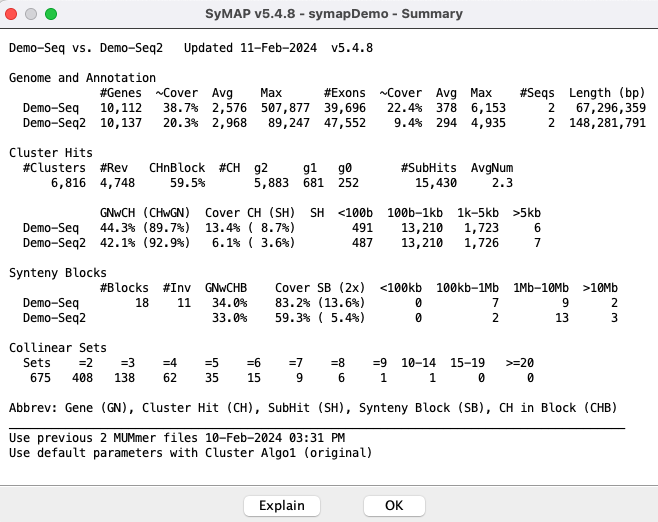
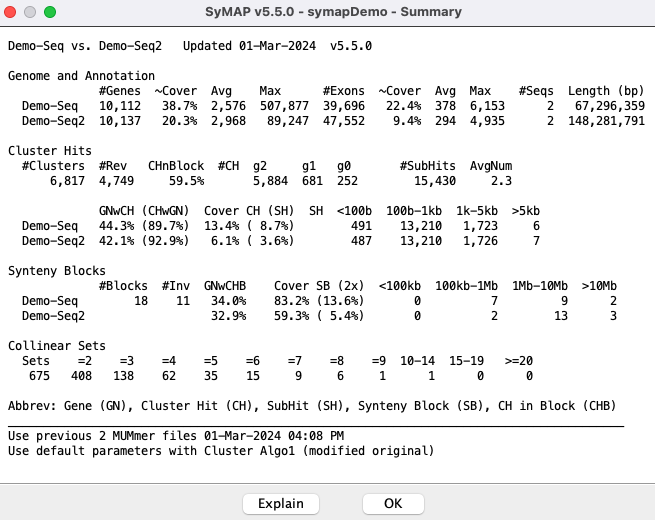
v5.5.0

diff --git a/docs/UserGuide.html b/docs/UserGuide.html
@@ -184,9 +184,13 @@ if you use SyMAP results in a paper, poster, or presentation.</font>
 
 	<tr><td style="white-space: nowrap;">Cluster Hit Algorithm:
 		<br><ttx>Algo1</ttx> or <ttx>Algo2</ttx><small><sup>1</sup></small>
-		<td>During the synteny computation, the clustering could have been done using the original <ttx>Algo1</ttx> or the
-		gene-centric <ttx>Algo2</ttx> (see <a href="SystemHelp.html#pairParams" class=ext target="_blank">System Help</a> for details).
-		The <a href="#sum">Summary</a> specifies which was used.
+		<td>During the synteny computation, either the <ttx>Algo1</ttx> or <ttx>Algo2</ttx> algorithm could have
+		been selected to cluster hits.
+		<br>&bull;The original <ttx>Algo1</ttx> was updated v5.4.0 to be more gene-aware but does not know exon-intron structure.
+		The new v5.4.8 <ttx>Algo2</ttx> knows exon-intron structure.
+		 See <a href="SystemHelp.html#clust" class=ext target="_blank">System Help</a> for details.
+
+		<br>&bull;The <a href="#sum">Summary</a> specifies which was used.
 		There are statistics in SyMAP that
 		have different values based on which algorithm was run.
 	<tr><td><ttx>Major</ttx> or <ttx>minor</ttx> assigned hit<small><sup>2</sup></small>
@@ -626,9 +630,8 @@ The tracks and hits can be filtered; see
 <h3>View a region</h3>
 <td style="text-align: right"><a href="#top">Go to top</a></td></tr></table>
 
-The example below was derived from a two chromosome display of A.thal Chr04 and Cabbage Chr01. The region
-was displayed by right-clicking
-near the top of the chromosome, dragging the mouse and releasing it in order to view the selected region.
+The selected region shown in the image below was created by left-clicking
+on one chromosome near the top coordinate shown (e.g. 11,638.48kb), dragging the mouse and releasing.
 The <ttb>Sequence Filter</ttb> was set to display <ttl>Annotations</ttl>.
 
 <p>
@@ -650,8 +653,6 @@ where the gaps are represented by a grey area.
 <i>Major and Minor genes</i> If one end of the hit-wires aligns to multiple genes, only one gene is assigned to
 it, which is called the <ttx>major</ttx> gene. The other genes are the <ttx>minor</ttx> genes.
 In the above example, gene 1910.b is the major gene for the top hit-wire and gene 1910.a is the minor gene.
-<p><font color=red>Problematic</font>: When zooming into a region, if the hit-wire is not in the region, none of the hit is shown. This
-is confusing for large hits. This will be fixed in a near-future release.
 
 <!------------------------------------------------------------------>
 <!------------------------------------------------------------------>
@@ -672,7 +673,6 @@ go away until the <ttb>OK</ttb> button is selected or the <ttl>Explorer</ttl> is
 <table style="width: 95%"><tr><td style="text-align: left">
 <h4>Hit Details</h4>
 <td style="text-align: right"><a href="#top">Go to top</a></td></tr></table>
-
 
 <u>Information:</u> Hovering the mouse over a hit-wire will show its information in the <ttl>Information</ttl> box.
 <p>
@@ -842,19 +842,28 @@ The Scale button
 (base pairs per pixel) as the reference sequence track in the view.
 <p>
 <a id="mouse_function_selector"></a>
-<ttl>Selected:</ttl>
-This drop-down selector assigns a function to the mouse's left button
-click and drag actions:
+<ttl>Selected:</ttl> This drop-down assigns a function to the selected region, which
+is selected by clicking the mouse left button on a location of the chromosome, drag and release.
 
 <table class="ty txy">
 <tr><td style="white-space: nowrap; vertical-align: text-top;"><ttl>Zoom All Tracks</ttl>
-	<td>Zoom the track to the selected region and all other tracks with hits in the region.
-	<br>When zoomed in, if the hit-wire is not displayed, none of the hit will be displayed.
+	<td>
+	<table>
+	<tr><td>
+	Zoom into the selected region and all other tracks with hits in the region.
+	<p>If the selection clips part of the hit, the hit-wire will be shown at the top or bottom of
+	the chromosome track. The hit-wire of the clipped hit can be highlighted just like a fully shown hit.
+	This feature was added for release v5.5.0 and also applies to <ttl>Zoom Selected Track</ttl>.
+	<td><a href="img/2d-clip-hitwire.png">
+	<img src="img/2d-clip-hitwire.png" alt="2d clip hitwire" style="border: 1px solid black; width: 150px"></a>
+	</table>
+
 <tr><td style="white-space: nowrap; vertical-align: text-top;"><ttl>Zoom Selected Track</ttl>
-	<td>Zoom to the selected region on the selected track; all other tracks do not change.
+	<td>Zoom into the selected region; all other tracks do not change.
 <tr><td style="white-space: nowrap; vertical-align: text-top;"><ttl>Align (Max 30kb)</ttl>
 	<td>Open the base alignment view for the selected region (see <a href="#base">Base Align</a>).
-There MUST be hits in the region to align.
+There MUST be at least a partial hit in the region to align.
+
 <tr><td style="white-space: nowrap; vertical-align: text-top;"><ttl>Show Seq Options</ttl>
 <td>The allows viewing the actual basepair sequence in a track.
 A sequence must first be selected, then a popup menu will have the options:
@@ -867,6 +876,7 @@ If the hit is on the positive strand, it will be reverse complemented.
 cluster hit to the end of the last cluster subhit.
 <tr><td><ttx>Region</ttx><td>Show the sequence from the region selected.
 </table>
+
 </table>
 
 <br><ttl>Stats</ttl>
@@ -906,8 +916,14 @@ and belong to 642 collinear sets.
 <p><ttl>Color, Print, <big>?</big> Icons</ttl>  see <a href="#image">Color Wheel, Help and Print</a>.
 
 <p>
-<u>Additional navigation</u>:
+<u>Mouse navigation</u>:
 <table  class="ty txy">
+<tr>
+	<td style="white-space: nowrap; vertical-align: text-top;">View region&nbsp;
+	<td>Drag left mouse button
+	<td>Press down on the left mouse button on a chromosome track, drag the mouse and release it. By default, this will
+	zoom into the selected region for both chromosomes. This action can be changed with the <ttl>Selected:</ttl> control
+	pull-down as discussed above.
 <tr>
 	<td style="white-space: nowrap; vertical-align: text-top;">Resize Track&nbsp;</td>
 	<td>Drag bottom of track</td>

diff --git a/docs/Release.html b/docs/Release.html
@@ -74,23 +74,59 @@ exon-intron structure.
 <tr><td><a href="#v520">v5.2.0</a><td>(20-Nov-22)<td>Updated collinear sets and <a href="Collinear.html">viewing</a>
 </table>
 
+<a id="v550"></a>
+<h3>Release: v5.5.0 (3-Mar-24)</h3>
+For existing databases, there are no changes (though there are for <a href=#v548>v5.4.8</a>).
+<br>To use SyMAP v5.5.0, you must have Java v17 or later.
+<p>
+<ul>
+<li>The <tt>symap.jar</tt> was compiled with Java version 1.8 (8); it is now compiled with Java 17, which
+is more secure, faster and was released Sept 2021.
+<li><ttb>2D display</ttb>
+<ol>
+<li>This display is much faster (really noticeable on slow machines or big chromosomes).
+<li>The <ttl>Hit Length</ttl> line was only shown if the hit-wire
+was shown; this is no longer the case.
+<li>The <ttl>Stats</ttl> button was removed, and the <ttl>Help</ttl> was moved to a little "i" button,
+which provides a popup of quick information.
+</ol>
+<li><ttb>Cluster Hits Algo1</ttb>
+<ol>
+<li>It no longer splits large genes since #2 above handles them better.
+<li>The <ttl>Summary</ttl> now refers to this algorithm as <ttx>Algo1 (modified original)</ttx> and the alternative
+as <ttx>Algo2 (exon-intron)</ttx>.
+</ol>
+<li>Developers: Lots of cleanup to remove OO spagetti code in 2d.
+<small>
+<ul>
+<li>Recreate tracks on new display instead of trying to reuse.
+<li>Move number.GenomeNumber to Sequence; remove the number class.
+Changed all numbers in DrawingPanel from objects to long.
+<li>Merge History class with HistoryControl, and remove HistoryObject.java.
+	Move HistoryControl and HistoryListener to symap.drawingpanel; remove history class.
+<li>Merge abstract Track.java with Sequence.java. Merge FSized2d.java with Frame2d.java.
+Rename frame.TrackInfo to ChrInfo and frame.Mapper to LeftMap
+</ul>
+</small>
+</ul>
+
 <a id="v549"></a>
 <h3>Release: v5.4.9 (20-Feb-24)</h3>
+For existing databases, there are no changes (though there are for <a href=#v548>v5.4.8</a>).
 <ul>
 <li>v5.4.8 little fixes: (1) The new <ttl>Query</ttl> <ttx>Multi</ttx> option had a small bug due to it using ">" instead of ">=".
 (2) The <ttl>Query</ttl> <ttx>Every*</ttx> option works for <ttx>Algo1</ttx> as of v5.4.8, but was still disabled.
 (3) The <ttl>Summary</ttl> gave wrong message if <ttl>EI</ttl> or <ttl>En</ttl> were unchecked.
-<li>The <ttl>Query</ttl> for selected chromosomes and locations was confusing. It is now consistent
-and properly documented.
+<li>The <ttl>Query</ttl> for selected chromosomes and locations was confusing. It is now consistent and properly documented.
 <li>Improved documentation.
 </ul>
 
 <a id="v548"></a>
 <h3>Release: v5.4.8 (13-Feb-24)</h3>
+For existing databases, rerun the <ttb>Synteny</ttb> algorithm.
 
 <p>This release fine tuned the <ttx>Cluster Hit Algo2</ttx> (first released in <a href="#v546">v5.4.6</a>)
 and made some adjustments to <ttx>Cluster Hit Algo1</ttx> for new interface feature.
-For existing databases, rerun the <ttb>Synteny</ttb> algorithm.
 
 <ul>
 <li><ttb>Synteny Clustering Algo2</ttb>:  See <a href="SystemHelp.html#clust">Cluster hits</a>.

diff --git a/docs/SystemHelp.html b/docs/SystemHelp.html
@@ -594,21 +594,20 @@ projects, while NUCmer is used for self alignments.
 <h3>3.c Cluster Hits</h3>
 <td style="text-align: right"><a href="#top">Go to top</a></td></tr></table>
 
-<ttl>Algorithm 1 (original, abbreviated Algo1)</ttl>:
+<ttl>Algorithm 1 (original, updated v5.4.0, abbreviated Algo1)</ttl>:
 <br><u>Pros</u> This is an generic algorithm that has knowledge of genes versus intergenic hits.
 It is recommended for ordering sequence contigs and when there are little or no gene annotation.
 It must be used for self-synteny. It has been used on 100's of genome comparisons.
-<br><u>Cons</u> It does not distinguish between exon and intron hits, but it can miss good homologous gene pairs.
+<br><u>Cons</u> It does not distinguish between exon and intron hits. It is more likely to miss good homologous gene pairs.
 <br><u>Parameters</u> It does not need parameter adjustment. However, this gives no control over what hits are filtered.
 
-<p><ttl>Algorithm 2 (gene-centric, abbreviated Algo2)</ttl>:
+<p><ttl>Algorithm 2 (new, last update v5.4.8, abbreviated Algo2)</ttl>:
 <br><u>Pros</u> This is a new algorithm that has explicit knowledge of gene pairs and their exon-intron structure, and shows all gene pairs with
 hits unless filtered by the parameters (and a few internal filters).
 It has better filtering for small intergenic and intron-only hits.
 <br><u>Cons</u> It does not perform self-synteny or take NUCmer files as input.
 It does not work when a given chromosome is split over multiple MUMmer files
 (this will not happen when SyMAP generates the MUMmer files).
-It does not split large hits.
 <br><u>Parameters</u> The parameters generally will need adjusting. However, this gives more control over what gene pairs
 are shown and can surpress the minor intergenic hits. See <a href="#hint">Hints</a>
 below the parameter explanation.

diff --git a/docs/SystemGuide.html b/docs/SystemGuide.html
@@ -189,7 +189,7 @@ Follow the steps below to get started with SyMAP.
 <table class="tx">
 	<tr><td style="vertical-align: text-top;">1.
 		<td style="vertical-align: text-top;">Use a Linux or MacOS machine.
-		<td style="vertical-align: text-top;">It needs to have Java v1.8 or later, and sufficient processing power.
+		<td style="vertical-align: text-top;">It needs to have Java v17 or later, and sufficient processing power.
 			See <a href="#machine">system requirements</a>.
 	<tr>
 		<td style="vertical-align: text-top;">2.
@@ -231,8 +231,9 @@ Follow the steps below to get started with SyMAP.
 <table style="width: 95%"><tr><td style="text-align: left">
 <h3>System Requirements</h3>
 <td style="text-align: right"><a href="#top">Go to top</a></table>
+<i>You must have Java version 17 or later, and MySQL or MariaDB. You must also have Perl for MUMmer.</i>
 
-SyMAP has been tested on the following:
+<p>SyMAP has been tested on the following:
 <table class="ty" style="font-family: Verdana, Arial, Helvetica, sans-serif; font-size:9pt">
 <tr><td><i>Machine</i><td><i>MySQL</i><td><i>Java</i><td><i>Core</i><td><i>Memory</i><td><i>Purchased</i>
 <tr><td colspan=2><ttl>v5.4.1 and later</ttl>:
@@ -269,7 +270,8 @@ but too small to process large input files.
 </small>
 
 
-<p>The jar file has been compiled with Java 1.8, which is upward compatible.
+<p>The jar file has been compiled with Java 17, which is upward compatible. If you need a version compile with Java 1.8,
+email symap@agcol.arizona.edu.
 <p>
 For performing large alignments (e.g. 1Gb genomes or more) <i>it is essential
 to have multiple CPUs and at least 5Gb of RAM for each CPU that you intend to use</i>. Note that you can set the

diff --git a/docs/index.html b/docs/index.html
@@ -66,7 +66,7 @@ detecting, displaying, and querying syntenic relationships between sequenced gen
 <br><img src="./img/bullet_blue_small.gif" alt="">&nbsp;It can align a draft genome to a fully sequenced genome
 (see <a href="./peach.html">Peach</a>), but not draft-to-draft.
 
-<p><img src="./img/bullet_blue_small.gif" alt="">&nbsp;Latest SyMAP release: v5.4.9 (20-Feb-2024), see <a href="./Release.html">Release Notes</a>.
+<p><img src="./img/bullet_blue_small.gif" alt="">&nbsp;Latest SyMAP release: v5.5.0 (3-Mar-2024), see <a href="./Release.html">Release Notes</a>.
 
 </div>
 <p>

diff --git a/docs/Docs.html b/docs/Docs.html
@@ -82,9 +82,8 @@
 <li><a href=UserGuide.html>User Guide</a>
 <br>&nbsp;&nbsp;&nbsp;&nbsp;<small>Auxiliary referenced documents</small>
 <ul>
-<li><a href="Collinear.html">Collinear Sets</a>
-<li><a href="Align.html">Alignments</a>
 <li><a href="Query.html">Queries</a>
+<li><a href="Collinear.html">Collinear Sets</a>
 </ul>
 <br>
 <li><a href=Tour.html>Tour</a>
